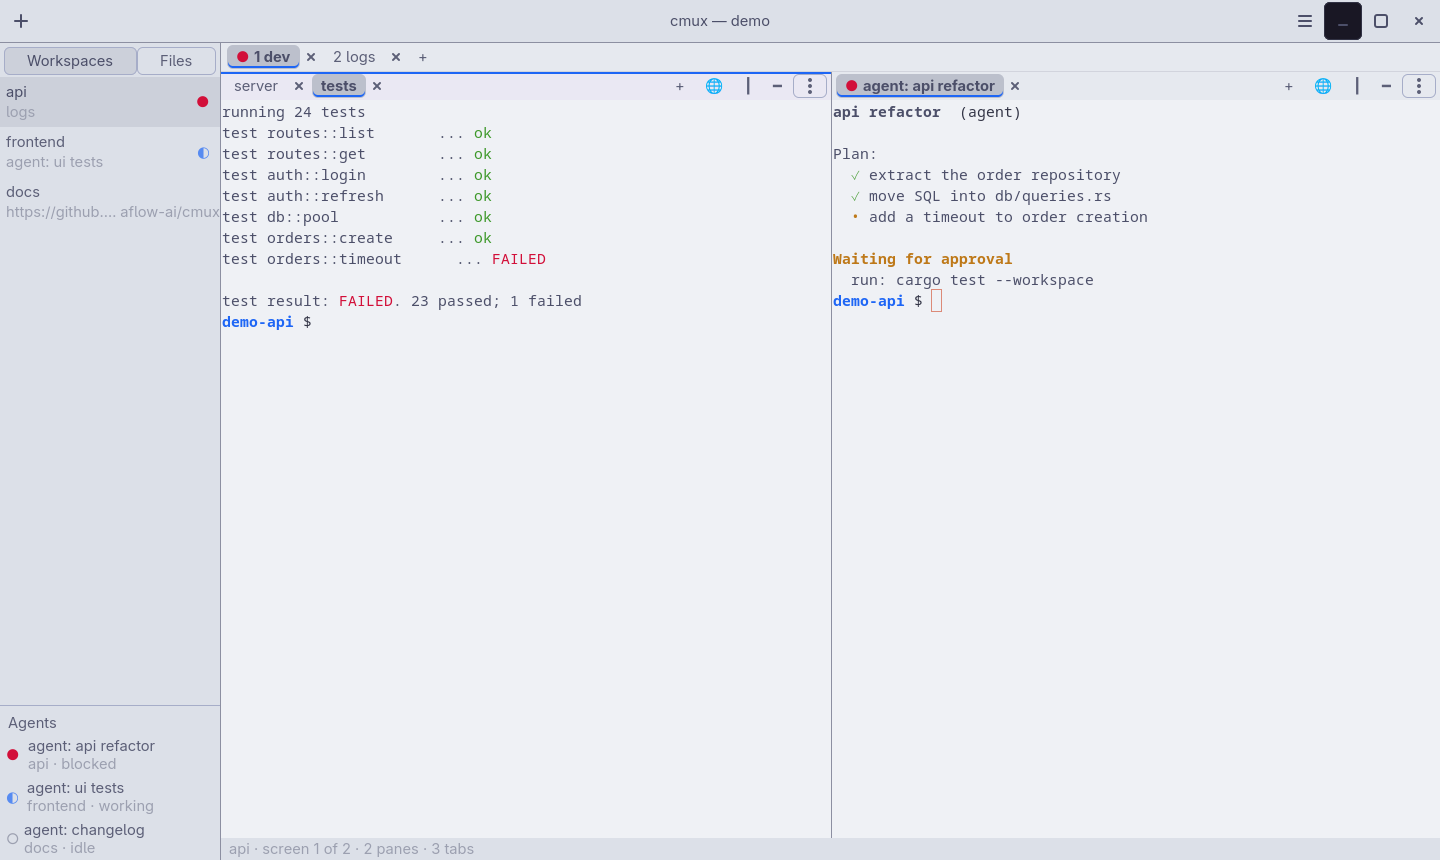
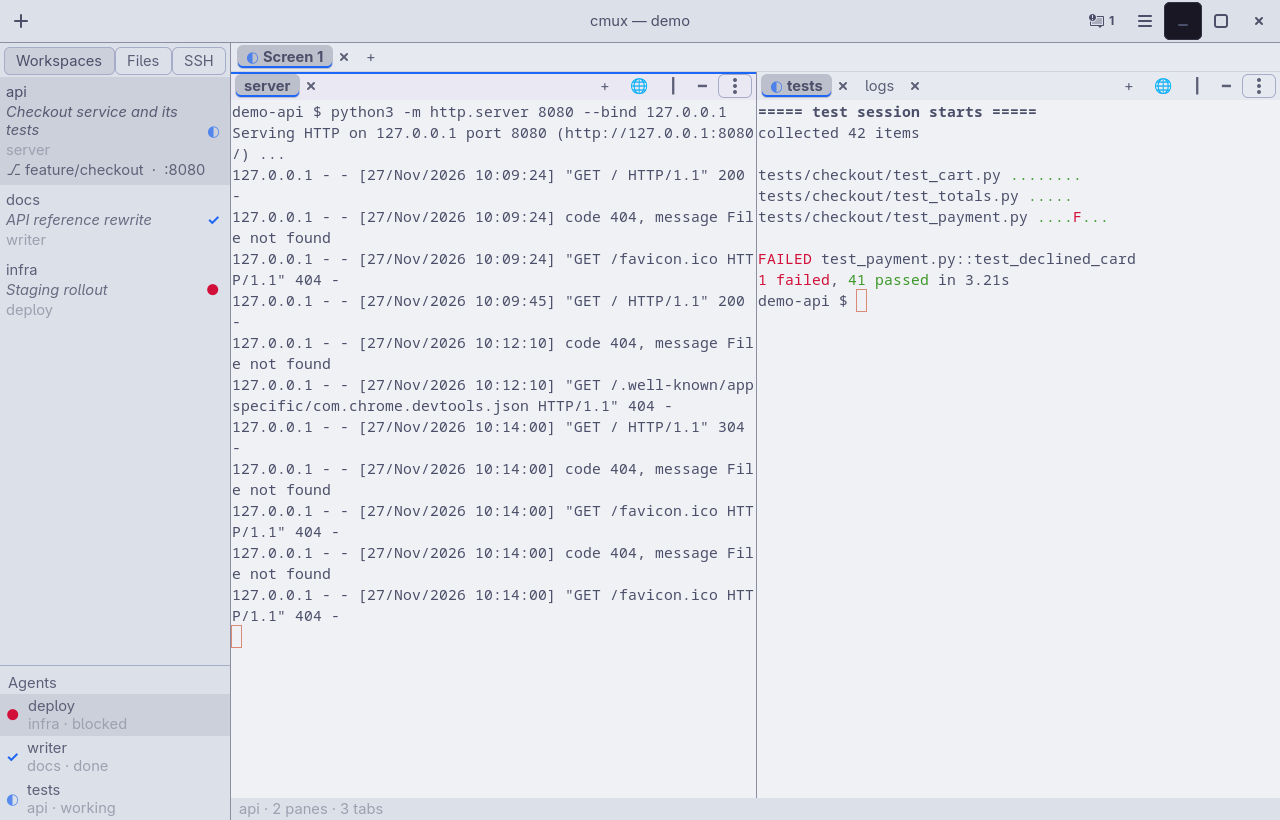
README: current features, scripting, new screenshots
- Status, browser tabs, requirements (optional gh, secret-tool, ssh),
  how it works (the newer workers), debugging, and a Scripting section
  listing the D-Bus actions.
- New screenshots from a demo session: overview (descriptions, badges,
  branch and port, agents), palette, browser tab, DevTools, settings,
  light theme.

diff --git a/gui/cmux-gtk/README.md b/gui/cmux-gtk/README.md
@@ -2,16 +2,18 @@
 
 A native GTK4 window for a cmux session, built on GTK4 and VTE (the terminal widget GNOME Terminal uses).
 
-![The cmux-gtk window: workspaces with agent badges, a split screen, and the agents queue](../../docs/screenshots/overview.png)
+![The cmux-gtk window: workspaces with descriptions, agent badges, branch and port, a split screen, and the agents queue](../../docs/screenshots/overview.png)
 
 The cmux-tui server stays in charge of everything, and this window is just another client of it. The TUI, this window and agents all see the same workspaces, terminals and browser pages. All layout changes (splits, tabs, moves, zoom, names) are requests to the server, and the window redraws from the tree the server reports back, so its layout can't drift from the TUI's. Only the selection belongs to the window: which workspace, screen, tab and pane you're looking at is this window's alone, as in upstream's design. Switching here doesn't move the TUI or another window, and switching there doesn't move this one. Things just created (a new workspace, screen or tab, including one a tab was moved into) come into view.
 
 | | |
 |---|---|
-| ![A browser tab with the live upstream repo page beside an agent's terminal](../../docs/screenshots/browser-tab.png) | ![The files view following the focused terminal's folder](../../docs/screenshots/files-view.png) |
-| [Browser tabs](#browser-tabs) | The [Files](#sidebar) view |
-| ![The same window in the light Latte theme](../../docs/screenshots/light-theme.png) | |
-| Following the Latte theme | |
+| ![The command palette with custom commands, workspaces and tabs](../../docs/screenshots/palette.png) | ![A browser tab showing a page served by the workspace's dev server](../../docs/screenshots/browser-tab.png) |
+| [Command palette](#command-palette) | [Browser tabs](#browser-tabs) |
+| ![DevTools beside the page they inspect](../../docs/screenshots/devtools.png) | ![The settings window](../../docs/screenshots/settings.png) |
+| [DevTools](#devtools) | [Settings](#settings) |
+| ![The same window in the light Latte theme](../../docs/screenshots/light-theme.png) | ![The files view following the focused terminal's folder](../../docs/screenshots/files-view.png) |
+| Following the Latte theme | The [Files](#sidebar) view |
 
 ## Install
 
@@ -24,7 +26,7 @@ cmux-gtk --session work     # another session, in its own window
 
 Each session gets its own window (app id `dev.cmuxlin.CmuxGtk.<session>`). `cmux-gtk --session work` opens beside the `main` window, and opening a session that already has a window brings that window up.
 
-If the session isn't running (after a reboot, say), the window starts it, like plain `cmux` does (`cmux server ensure`), and connects. A session that stops while the window is open stays stopped; ☰ → **Start session** brings it back. If the session restarts, the window dims and waits, then reconnects by itself and re-attaches every pane.
+If the session isn't running (after a reboot, say), the window starts it, like plain `cmux` does (`cmux server ensure`), and connects. You can turn that off in Settings. A session that stops while the window is open stays stopped; ☰ → **Start session** brings it back. If the session restarts, the window dims and waits, then reconnects by itself and re-attaches every pane.
 
 ## Workspaces, screens and panes
 
@@ -324,7 +326,13 @@ gdbus call --session --dest dev.cmuxlin.CmuxGtk.main --object-path /dev/cmuxlin/
 ## Requirements
 
 - **Always:** cmux-tui (the window starts the session if needed), plus `gtk4-devel` and `vte291-gtk4-devel` to build.
-- **Only for browser tabs:** a Chromium-based browser, for example Chromium (`sudo dnf install chromium`), Brave or Microsoft Edge. Google Chrome works too, but it's only used if nothing else is installed, because it reports usage to Google even when run headless. Firefox can't be used: cmux talks to pages over the Chrome DevTools Protocol, which Firefox no longer supports. Without one, everything else works, and a browser tab says what's missing instead of showing a page.
+- **Only for browser tabs:** a Chromium-based browser, for example Chromium (`sudo dnf install chromium`), Brave or Microsoft Edge. Google Chrome works too, but it's only used if nothing else is installed, because it reports usage to Google even when run headless. Firefox can't run browser tabs: cmux talks to pages over the Chrome DevTools Protocol, which Firefox no longer supports. Firefox cookies can still be imported. Without a Chromium-based browser, everything else works, and a browser tab says what's missing instead of showing a page.
+- **Optional, for single features:**
+  - `gh`, logged in, for pull request status;
+  - `secret-tool` (package `libsecret`) to import cookies from Chromium-family browsers;
+  - `ssh` for the SSH view.
+
+  Each feature simply stays empty without its tool.
 
 ## Build from source
 
@@ -347,6 +355,13 @@ The tree is re-read every 1.5 s and straight after every action. If a tree poll 
 
 A third connection subscribes to session events. `notification` events become desktop notifications, and tree, agent and notification events trigger an immediate re-poll of the tree and the agent roster (`list-agents`), so badges update within a moment rather than on the next poll.
 
+A few more workers run beside these, each on its own connection:
+
+- **Notification panel.** The control thread reads the notification list over the session's resource protocol (`cmux.protocol/2`), which has the list, ack and clear operations the older commands lack.
+- **Workspace details.** A thread works out each workspace's folder, git branch, pull request and listening ports every 3 seconds (see [Branch and ports](#branch-and-ports)).
+- **Multi-step actions.** Workspace layout commands, pane moves, SSH workspaces and DevTools are each built step by step on a short-lived thread, then the window shows the result.
+- **Browser provider.** The built-in provider runs in its own thread too, with the headless browser as a child process.
+
 Terminal colours come from the active theme itself: the `~/.config/ghostty/config` block `cmux-theme` writes, which is also what the server loads. The window reads it directly and re-colours every terminal as soon as it changes, so a theme switch shows at once whatever colours the server is holding. A program's own colour changes (OSC 10/11/12 and OSC 4, which the server reports as overrides) still win. After that comes a legibility guard: text gets at least 4.5:1 contrast against the background and ANSI colours 1–15 at least 3:1, each nudged toward white or black only as far as needed, so a theme with low-contrast pairs stays readable. Colour 0 is left as is, because it's mostly used as a background. Colours a program prints in fixed RGB, such as powerline prompt segments, keep their literal values, as in any terminal.
 
 ## Not done
@@ -356,5 +371,24 @@ Terminal colours come from the active theme itself: the `~/.config/ghostty/confi
 
 ## Debugging
 
-- `CMUX_GTK_SNAPSHOT=/abs/path.png` renders the window to that PNG every 2 s, without screen capture, plus `path-notes.png` while the notification panel is open.
-- `CMUX_GTK_DEBUG=1` logs per-pane size reports to stderr.
+- `CMUX_GTK_SNAPSHOT=/abs/path.png` renders the window to that PNG every 2 s without screen capture. It adds `path-notes.png` while the notification panel is open and `path-settings.png` while the settings window is open.
+- `CMUX_GTK_DEBUG=1` logs size reports, acknowledgements and find results to stderr.
+- `CMUX_GTK_NO_PROVIDER=1` runs without the built-in browser provider.
+
+## Scripting
+
+Every window is reachable over D-Bus at `dev.cmuxlin.CmuxGtk.<session>`, object path `/dev/cmuxlin/CmuxGtk/<session>`, through the standard `org.gtk.Actions` interface. Besides the menu actions (`app.settings`, `app.palette`, `app.notifications`, `app.find`, `app.devtools`, `app.theme`, …), these take an argument:
+
+| Action | Argument | Does |
+|---|---|---|
+| `app.nav` | string | `workspace-N`, `workspace-next`/`-prev`, `tab-N`, `tab-next`/`-prev`, `focus-<dir>`, `resize-<dir>`, `flash` |
+| `app.palette-run` | string | runs the best palette match for the text |
+| `app.palette-text` | string | opens the palette with the text typed |
+| `app.find-text` | string | opens Find in the focused terminal and searches |
+| `app.show-surface` | uint64 | shows the tab with that surface id |
+| `app.open-session` | string | opens that session's window |
+
+```bash
+gdbus call --session --dest dev.cmuxlin.CmuxGtk.main --object-path /dev/cmuxlin/CmuxGtk/main \
+  --method org.gtk.Actions.Activate palette-run '[<"go to workspace api">]' '{}'
+```

diff --git a/README.md b/README.md
@@ -4,7 +4,7 @@ Reproducible Linux build of **cmux** — [manaflow-ai/cmux](https://github.com/m
 
 > Unofficial. All of the multiplexer is upstream cmux by [manaflow-ai](https://github.com/manaflow-ai), built on [Ghostty](https://github.com/ghostty-org/ghostty); see [Credits](#credits).
 
-![The cmux-gtk window: workspaces with agent badges, a split screen, and the agents queue](docs/screenshots/overview.png)
+![The cmux-gtk window: workspaces with descriptions, agent badges, branch and port, a split screen, and the agents queue](docs/screenshots/overview.png)
 
 Upstream cmux ships a native macOS app (Swift/AppKit on libghostty). That app can't be ported in a build script. What does run on Linux is `cmux-tui`, the Rust multiplexer that keeps sessions, workspaces, screens, panes, tabs, terminals and browsers, with a sidebar, agent hooks and notifications. This repo:
 
@@ -18,7 +18,8 @@ Status on Fedora 44 (x86_64), verified 2026-11-27:
 - `30-build.sh` builds `cmux-tui` (Zig 0.16.0 builds `libghostty-vt.a`, Ghostty's VT core), the browser provider, and the GTK app when its libraries are present.
 - `cmux` starts or attaches a durable session; `cmux server start` runs one headless; the TUI restores the session's layout across restarts.
 - The noun-first CLI (`cmux workspace create`, `cmux terminal list`, …) works against the running session.
-- cmux-gtk drives the same session: workspaces, screens, splits, tabs, browser tabs, agent badges and desktop notifications.
+- cmux-gtk drives the same session: workspaces, screens, splits, tabs and browser tabs, agent badges and notifications, a command palette, settings, an SSH view, DevTools and cookie import (see [The GTK window](#the-gtk-window)).
+- `40-install.sh` installs shell completions; `50-package-rpm.sh` builds an installable RPM.
 
 | Part | Included here | Notes |
 |---|---|---|
@@ -32,10 +33,12 @@ Status on Fedora 44 (x86_64), verified 2026-11-27:
 
 | | |
 |---|---|
-| ![A browser tab with the live upstream repo page beside an agent's terminal](docs/screenshots/browser-tab.png) | ![The files view following the focused terminal's folder](docs/screenshots/files-view.png) |
-| A browser tab beside an agent | The files sidebar view |
-| ![The same window in the light Latte theme](docs/screenshots/light-theme.png) | |
-| The window follows the theme (here Latte) | |
+| ![The command palette with custom commands, workspaces and tabs](docs/screenshots/palette.png) | ![A browser tab showing a page served by the workspace's dev server](docs/screenshots/browser-tab.png) |
+| The command palette | A browser tab beside the dev server's tests |
+| ![DevTools beside the page they inspect](docs/screenshots/devtools.png) | ![The settings window](docs/screenshots/settings.png) |
+| DevTools beside the page | Settings |
+| ![The same window in the light Latte theme](docs/screenshots/light-theme.png) | ![The files view following the focused terminal's folder](docs/screenshots/files-view.png) |
+| The window follows the theme (here Latte) | The files sidebar view |
 
 The screenshots come from a demo session with made-up content.
 
@@ -125,7 +128,7 @@ cmux browser tabs (`Ctrl-b B` in the TUI, 🌐 in the window) are real Chromium 
 - cmux-gtk runs one built in.
 - For the TUI on its own, run `cmux-browser-provider --session main` alongside the session (Ctrl-C to stop).
 
-It needs a Chromium-based browser, but only when a browser tab exists: Chromium (`sudo dnf install chromium`), Brave or Edge, with Google Chrome as a last resort, or whatever `CMUX_LIN_BROWSER` names. It runs the browser headless with its own profile under `~/.local/share/cmux-lin/browsers/`, and the browser always exits with the provider. Terminals never need it. Details: [gui/cmux-gtk/README.md](gui/cmux-gtk/README.md#browser-tabs).
+It needs a Chromium-based browser, but only when a browser tab exists: Chromium (`sudo dnf install chromium`), Brave or Edge, with Google Chrome as a last resort, or whatever `CMUX_LIN_BROWSER` names. It runs the browser headless with its own profile under `~/.local/share/cmux-lin/browsers/`, and the browser always exits with the provider. Terminals never need it. In cmux-gtk you can pick the browser in Settings, open DevTools for a page (`F12`), and import cookies from your other browsers so browser tabs start logged in. Details: [gui/cmux-gtk/README.md](gui/cmux-gtk/README.md#browser-tabs).
 
 ### Quitting a session
 
